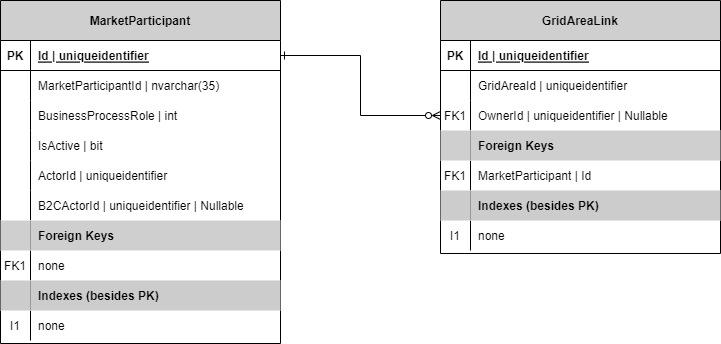
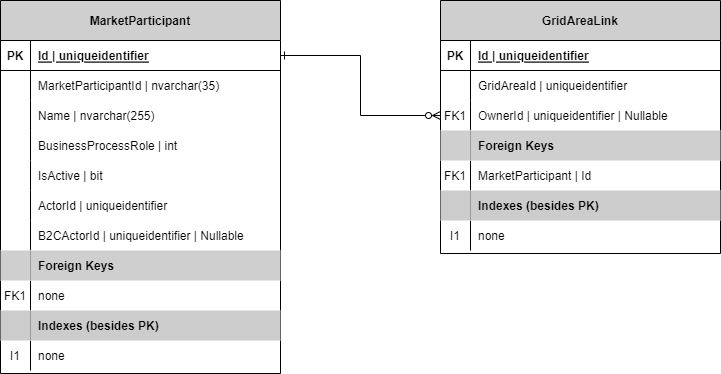
Feat: Add `Name` to `Market Participant data model` and use it's value in Charges Web API (#1620)
If applied, this PR extend the market participant data model with Name
and provides an initial value. Additionally the Charges Web API will then be 
serving the name value as Charge Owner Name for Charges and Links.

diff --git a/source/GreenEnergyHub.Charges/source/GreenEnergyHub.Charges.IntegrationTests/IntegrationTests/WebApi/V1/ChargesControllerTests.cs b/source/GreenEnergyHub.Charges/source/GreenEnergyHub.Charges.IntegrationTests/IntegrationTests/WebApi/V1/ChargesControllerTests.cs
@@ -86,7 +86,7 @@ namespace GreenEnergyHub.Charges.IntegrationTests.IntegrationTests.WebApi.V1
             actual.Resolution.Should().Be(Resolution.PT1H);
             actual.ChargeName.Should().Be("Elafgift");
             actual.ChargeOwner.Should().Be("5790000432752");
-            actual.ChargeOwnerName.Should().Be("<Aktørnavn XYZ>");
+            actual.ChargeOwnerName.Should().Be("System Operator");
             actual.TaxIndicator.Should().BeTrue();
             actual.TransparentInvoicing.Should().BeTrue();
             actual.ValidFromDateTime.Should().Be(new DateTime(2014, 12, 31, 23, 00, 00));
@@ -157,7 +157,7 @@ namespace GreenEnergyHub.Charges.IntegrationTests.IntegrationTests.WebApi.V1
             actual.Resolution.Should().Be(Resolution.PT1H);
             actual.ChargeName.Should().Be("Elafgift");
             actual.ChargeOwner.Should().Be("5790000432752");
-            actual.ChargeOwnerName.Should().Be("<Aktørnavn XYZ>");
+            actual.ChargeOwnerName.Should().Be("System Operator");
             actual.TaxIndicator.Should().BeTrue();
             actual.TransparentInvoicing.Should().BeTrue();
             actual.ValidFromDateTime.Should().Be(new DateTime(2014, 12, 31, 23, 00, 00));

diff --git a/source/GreenEnergyHub.Charges/source/GreenEnergyHub.Charges.QueryApi/ModelPredicates/ChargeLinkQueryLogic.cs b/source/GreenEnergyHub.Charges/source/GreenEnergyHub.Charges.QueryApi/ModelPredicates/ChargeLinkQueryLogic.cs
@@ -40,7 +40,7 @@ namespace GreenEnergyHub.Charges.QueryApi.ModelPredicates
                          .OrderBy(cp => cp.StartDateTime)
                          .First()).Name,
                     cl.Charge.Owner.MarketParticipantId,
-                    "<Aktørnavn XYZ>", // Hardcoded as we currently don't have the ChargeOwnerName data
+                    cl.Charge.Owner.Name,
                     cl.Charge.TaxIndicator,
                     (cl.Charge.ChargePeriods
                         .Where(cp => cp.StartDateTime <= todayAtMidnightUtc)

diff --git a/source/GreenEnergyHub.Charges/source/GreenEnergyHub.Charges.Tests/WebApi/ModelPredicates/ChargeLinkQueryLogicTests.cs b/source/GreenEnergyHub.Charges/source/GreenEnergyHub.Charges.Tests/WebApi/ModelPredicates/ChargeLinkQueryLogicTests.cs
@@ -49,7 +49,7 @@ namespace GreenEnergyHub.Charges.Tests.WebApi.ModelPredicates
                 chargeLink.Charge.SenderProvidedChargeId,
                 chargeLink.Charge.ChargePeriods.Single().Name,
                 chargeLink.Charge.Owner.MarketParticipantId,
-                "<Aktørnavn XYZ>",
+                chargeLink.Charge.Owner.Name,
                 chargeLink.Charge.TaxIndicator,
                 chargeLink.Charge.ChargePeriods.Single().TransparentInvoicing,
                 chargeLink.Factor,

diff --git a/source/GreenEnergyHub.Charges/source/GreenEnergyHub.Charges.Tests/WebApi/ModelPredicates/ChargeQueryLogicTests.cs b/source/GreenEnergyHub.Charges/source/GreenEnergyHub.Charges.Tests/WebApi/ModelPredicates/ChargeQueryLogicTests.cs
@@ -48,7 +48,7 @@ namespace GreenEnergyHub.Charges.Tests.WebApi.ModelPredicates
                 charge.SenderProvidedChargeId,
                 charge.ChargePeriods.Single().Name,
                 charge.Owner.MarketParticipantId,
-                "<Aktørnavn XYZ>",
+                charge.Owner.Name,
                 charge.TaxIndicator,
                 charge.ChargePeriods.Single().TransparentInvoicing,
                 charge.ChargePeriods.Single().StartDateTime,

diff --git a/source/GreenEnergyHub.Charges/source/GreenEnergyHub.Charges.QueryApi/ModelPredicates/ChargeQueryLogic.cs b/source/GreenEnergyHub.Charges/source/GreenEnergyHub.Charges.QueryApi/ModelPredicates/ChargeQueryLogic.cs
@@ -40,7 +40,7 @@ public static class ChargeQueryLogic
                  .OrderBy(cp => cp.StartDateTime)
                  .First()).Name,
             c.Owner.MarketParticipantId,
-            "<Aktørnavn XYZ>", // Hardcoded as we currently don't have the ChargeOwnerName data
+            c.Owner.Name,
             c.TaxIndicator,
             (c.ChargePeriods
                  .Where(cp => cp.StartDateTime <= todayAtMidnightUtc)

diff --git a/source/GreenEnergyHub.Charges/source/GreenEnergyHub.Charges.QueryApi/Model/MarketParticipant.cs b/source/GreenEnergyHub.Charges/source/GreenEnergyHub.Charges.QueryApi/Model/MarketParticipant.cs
@@ -47,6 +47,8 @@ public class MarketParticipant
     [Column("B2CActorId")]
     public Guid? B2cactorId { get; set; }
 
+    public string Name { get; set; }
+
     [InverseProperty("Owner")]
     public virtual ICollection<Charge> Charges { get; set; }
 
